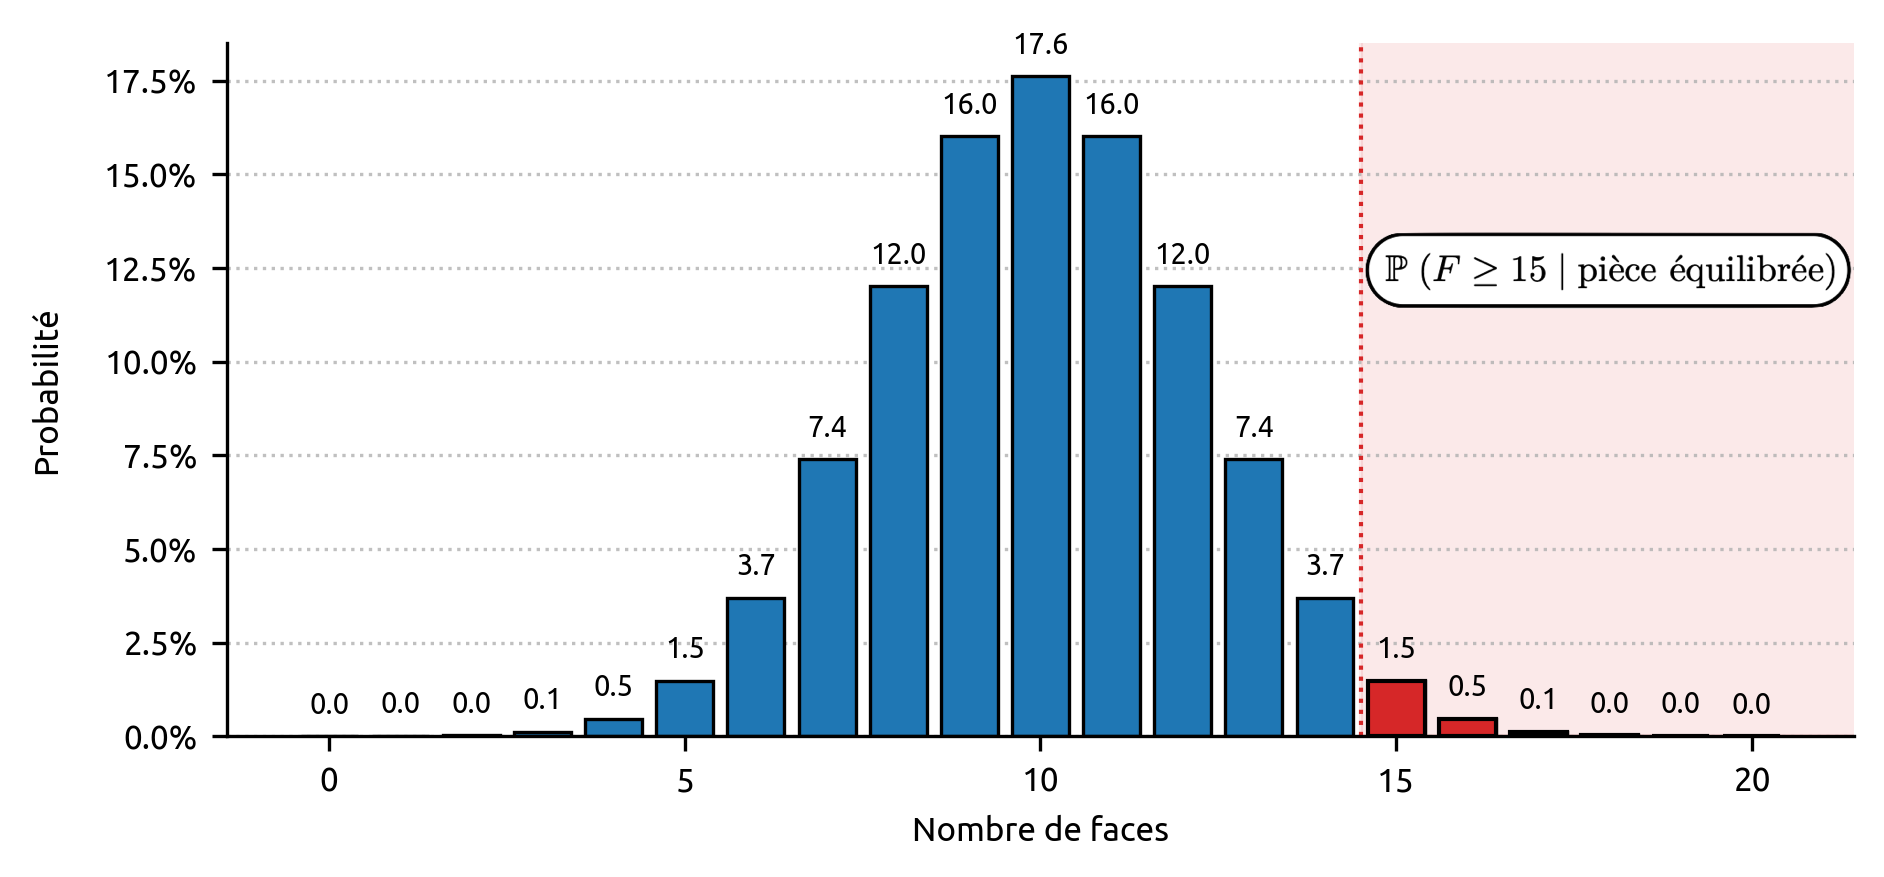
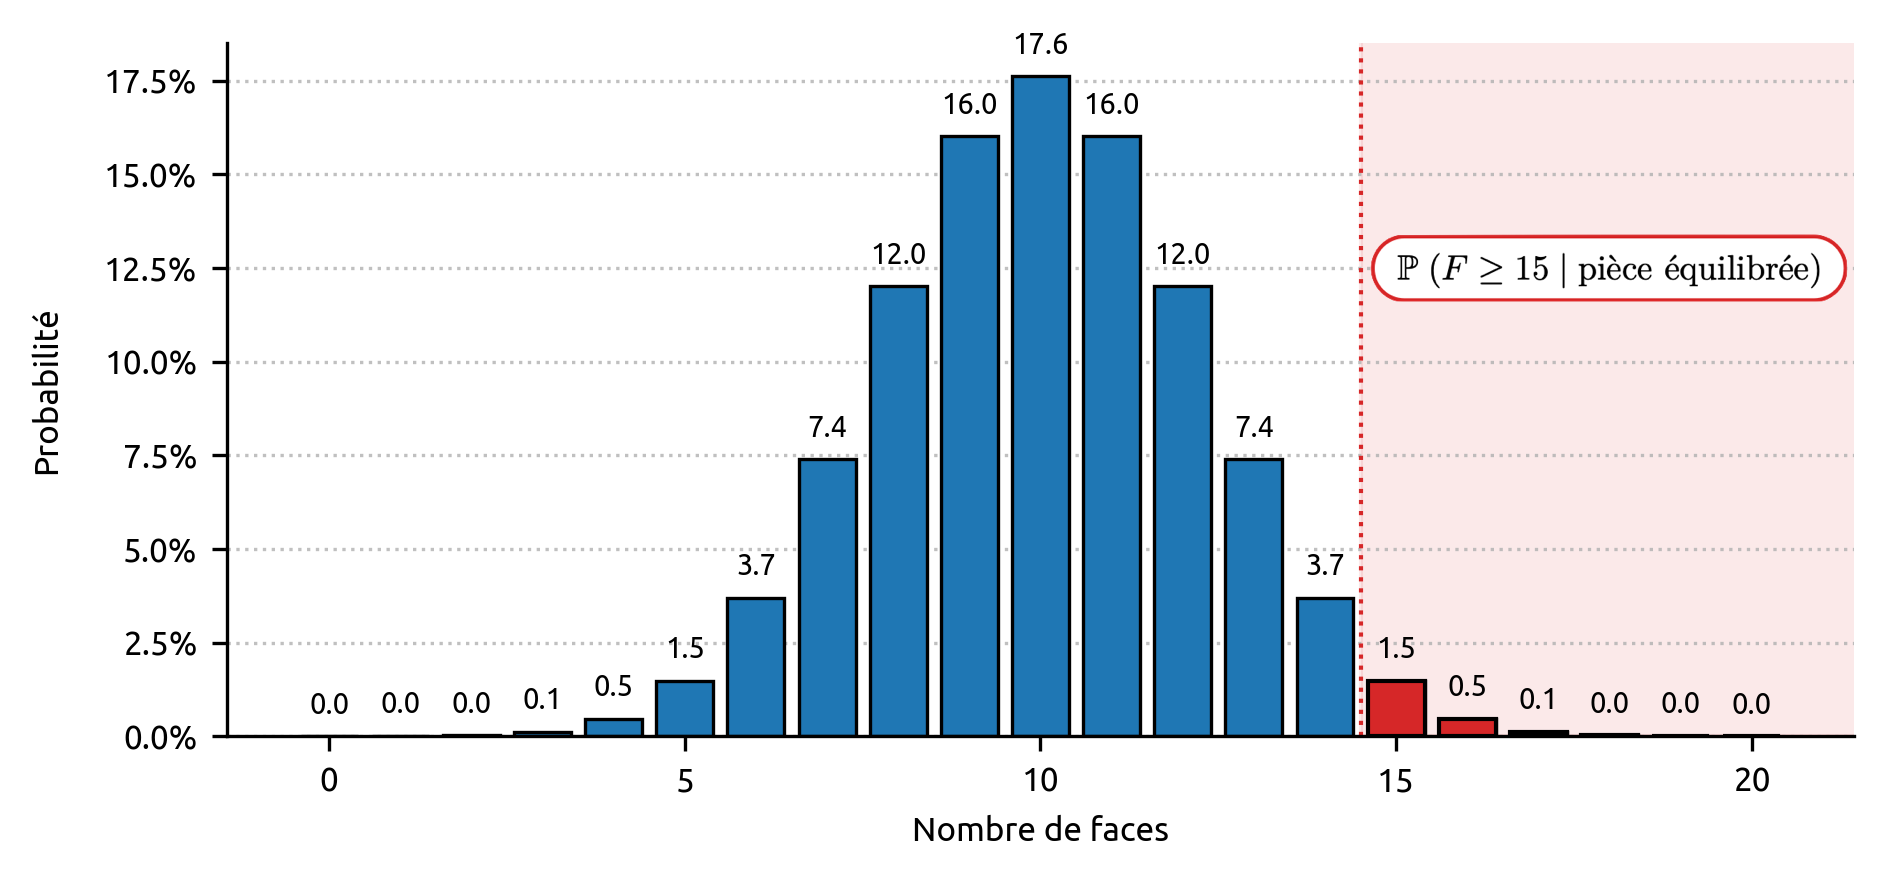
refactor(examples-in-action): make interactive figure random variable label (heads) language-dependent

Changed region(s): [[0.7081, 0.2463, 0.9851, 0.3694]]

diff --git a/examples-in-action/js/controls.js b/examples-in-action/js/controls.js
@@ -84,11 +84,11 @@ const Controls = {
           <div class="mode-radios">
             <label>
               <input type="radio" class="mode-radio" name="mode" value="${this.MODE_EQ}" checked>
-              ${katex.renderToString('\\mathbb{P}(F = k)', { throwOnError: false })}
+              ${katex.renderToString(`\\mathbb{P}(${LANG.randomVar} = k)`, { throwOnError: false })}
             </label>
             <label>
               <input type="radio" class="mode-radio" name="mode" value="${this.MODE_GTE}">
-              ${katex.renderToString('\\mathbb{P}(F \\geq k)', { throwOnError: false })}
+              ${katex.renderToString(`\\mathbb{P}(${LANG.randomVar} \\geq k)`, { throwOnError: false })}
             </label>
           </div>
           <div class="k-input-row">

diff --git a/examples-in-action/js/app.js b/examples-in-action/js/app.js
@@ -40,8 +40,8 @@ function updateDescription(state, prob) {
 
   const formula =
     mode === 'eq'
-      ? `\\mathbb{P}(F = ${k} \\mid \\text{${LANG.fairCoin}}) = ${probPercent}\\%`
-      : `\\mathbb{P}(F \\geq ${k} \\mid \\text{${LANG.fairCoin}}) = ${probPercent}\\%`;
+      ? `\\mathbb{P}(${LANG.randomVar} = ${k} \\mid \\text{${LANG.fairCoin}}) = ${probPercent}\\%`
+      : `\\mathbb{P}(${LANG.randomVar} \\geq ${k} \\mid \\text{${LANG.fairCoin}}) = ${probPercent}\\%`;
 
   const renderedMath = katex.renderToString(formula, { throwOnError: false });
 

diff --git a/examples-in-action/js/lang/fr.js b/examples-in-action/js/lang/fr.js
@@ -3,6 +3,7 @@ const LANG = {
   xAxisLabel: 'Nombre de faces',
   yAxisLabel: 'Probabilité',
   fairCoin: 'pièce équilibrée',
+  randomVar: 'F',
 };
 
 LANG.faces = (k) => (k > 1 ? 'faces' : 'face');
